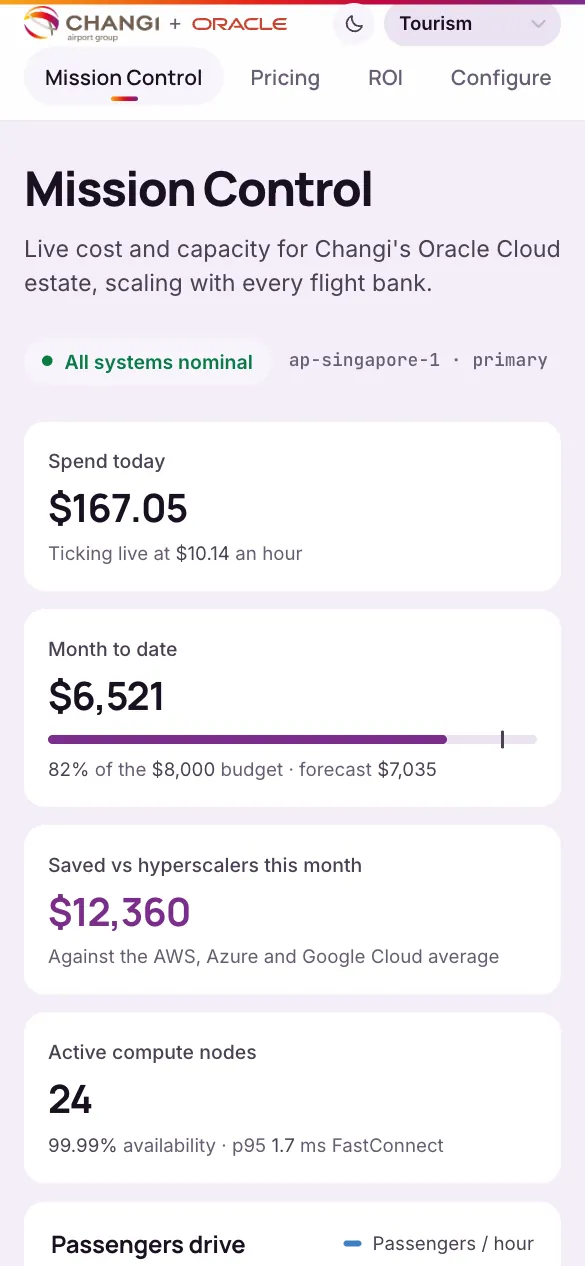
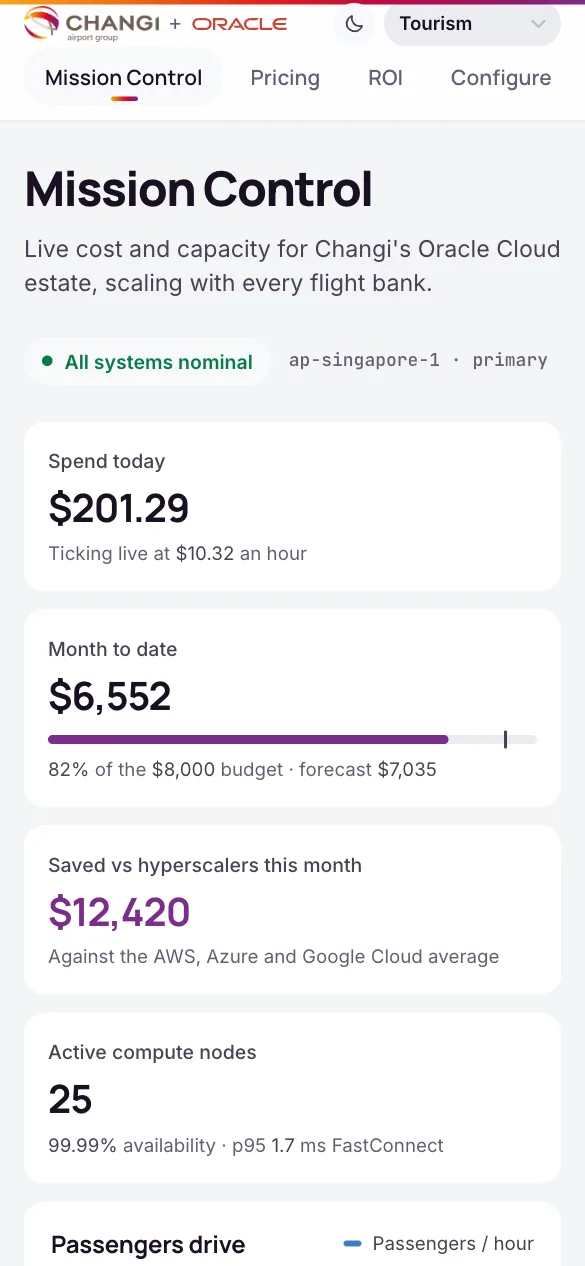
Changi: neutral grey light theme, refresh posters

diff --git a/assets/prototype/changi/styles.css b/assets/prototype/changi/styles.css
@@ -43,12 +43,12 @@
 
 /* Light is the Changi brand default; dark is the night-operations theme */
 :root:not([data-theme="dark"]) {
-  --bg: #f4eef8;          /* Changi lavender, a tint of Pantone 263 C */
+  --bg: #f4f5f7;          /* Neutral cool grey; Changi plum is kept for accents only */
   --panel: #ffffff;
-  --panel-2: #f8f4fb;
-  --panel-3: #ebe2f2;
-  --line: rgba(26, 16, 34, .08);
-  --line-2: rgba(26, 16, 34, .15);
+  --panel-2: #f8f9fa;
+  --panel-3: #eaecef;
+  --line: rgba(17, 19, 24, .08);
+  --line-2: rgba(17, 19, 24, .15);
   --ink: #1a1022;
   --ink-2: #4a4155;
   --ink-3: #675d74;

diff --git a/assets/prototype/changi/index.html b/assets/prototype/changi/index.html
@@ -5,7 +5,7 @@
 <script src="frame-top.js"></script>
 <meta charset="UTF-8">
 <meta name="viewport" content="width=device-width, initial-scale=1.0">
-<meta name="theme-color" content="#f4eef8">
+<meta name="theme-color" content="#f4f5f7">
 <script>try{if(localStorage.getItem("changi-theme")==="dark")document.documentElement.setAttribute("data-theme","dark")}catch(e){}</script>
 <title>Changi Airport Group + Oracle | Cloud Mission Control</title>
 <link rel="preconnect" href="https://fonts.googleapis.com">

diff --git a/assets/prototype/changi/script.js b/assets/prototype/changi/script.js
@@ -773,7 +773,7 @@
   function syncTheme() {
     var dark = root.getAttribute("data-theme") === "dark";
     themeBtn.setAttribute("aria-pressed", dark ? "true" : "false");
-    $('meta[name="theme-color"]').setAttribute("content", dark ? "#150d1b" : "#f4eef8");
+    $('meta[name="theme-color"]').setAttribute("content", dark ? "#150d1b" : "#f4f5f7");
   }
   themeBtn.addEventListener("click", function () {
     var dark = root.getAttribute("data-theme") !== "dark";
